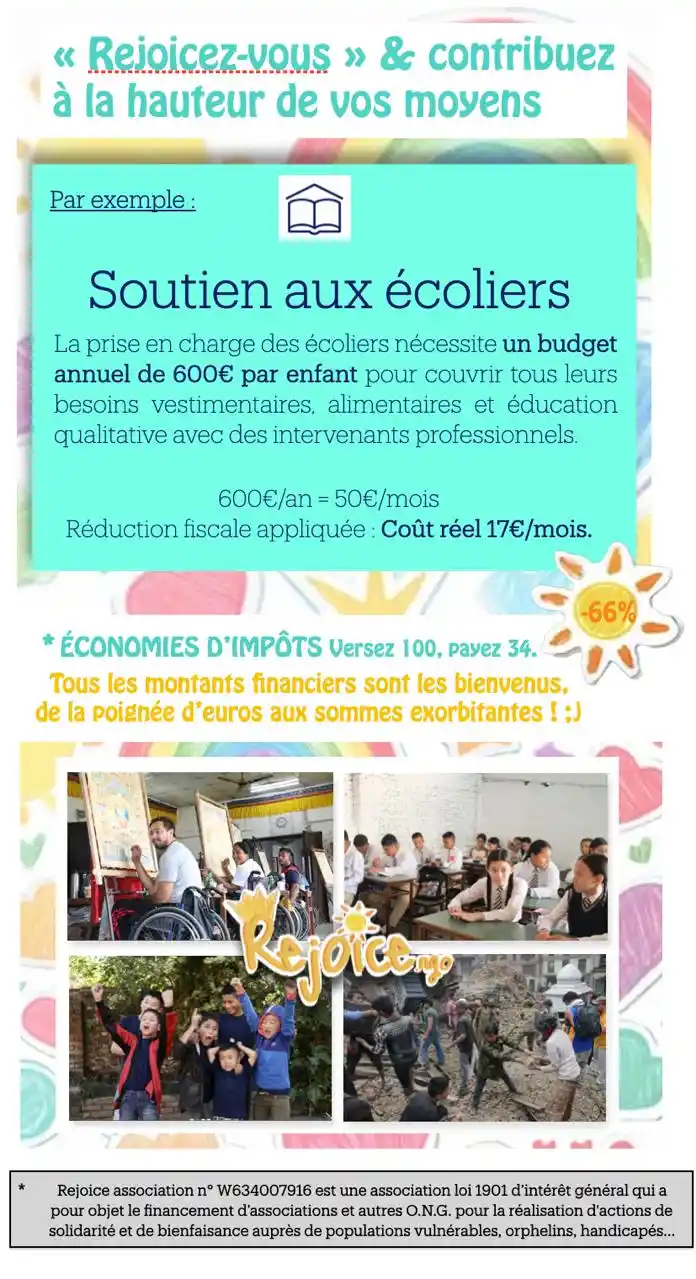
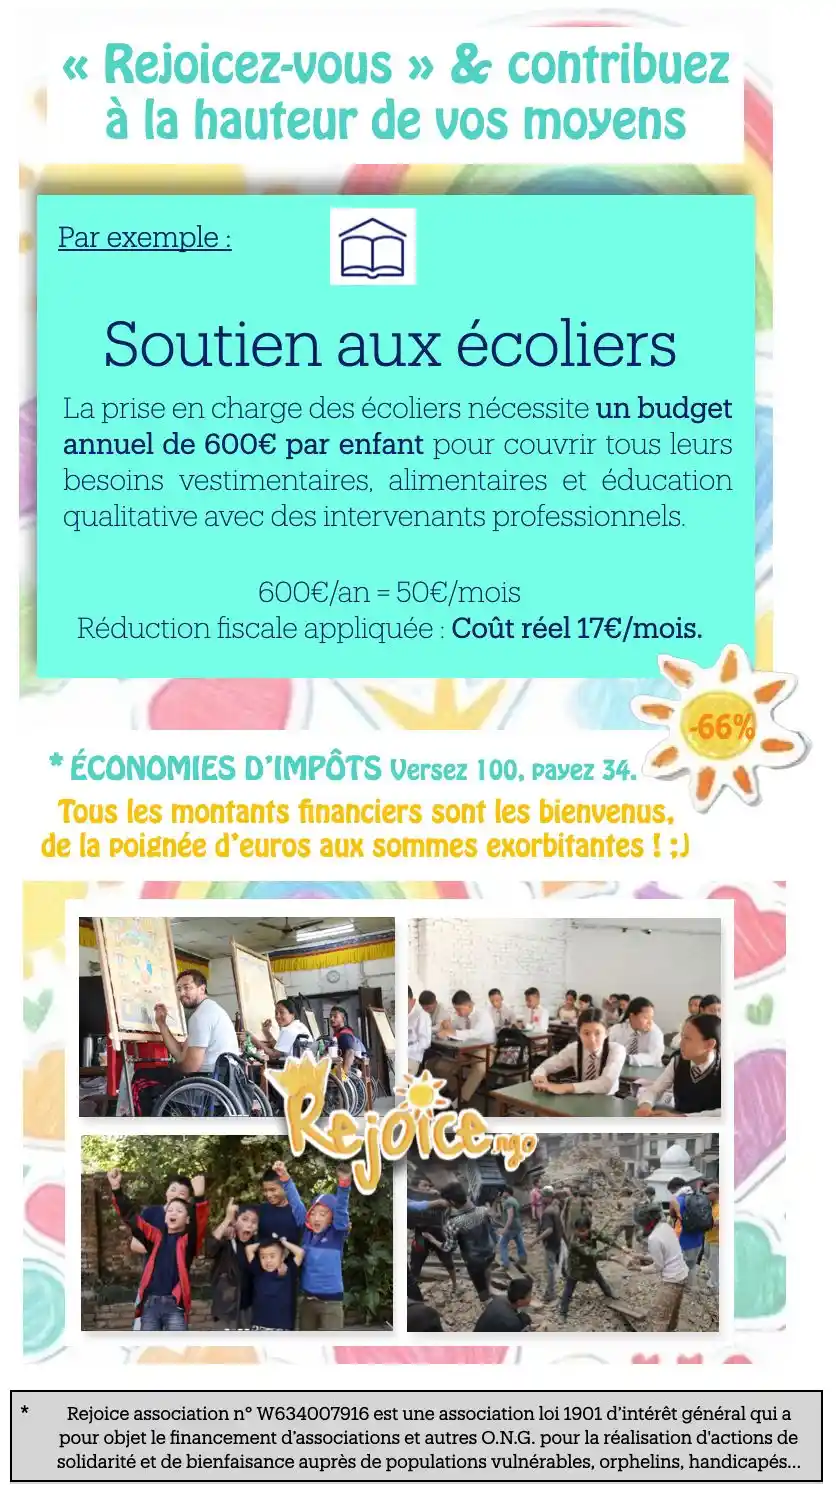
minor EN updates

diff --git a/rejoice_en.html b/rejoice_en.html
@@ -85,7 +85,7 @@
             <h2>Our assistance program</h2>
         </div>
         <div class="title-mobile">
-            <img src="/img/rejoice/prog-aide-mobile.webp" alt="">
+            <img src="/img/rejoice/prog-aide-EN-Mobile.webp" alt="">
         </div>
         <div id="flex-cards">
             <div class="card">
@@ -123,7 +123,7 @@
             <img src="./img/rejoice/page-soutien-EN.webp" alt="support description">
         </div>
         <div class="title-mobile">
-            <img src="/img/rejoice/page-soutien-mobile.webp" alt="">
+            <img src="/img/rejoice/page-soutien-mobile-EN.webp" alt="">
         </div>
     </section>
     <section id="contactez-nous">
